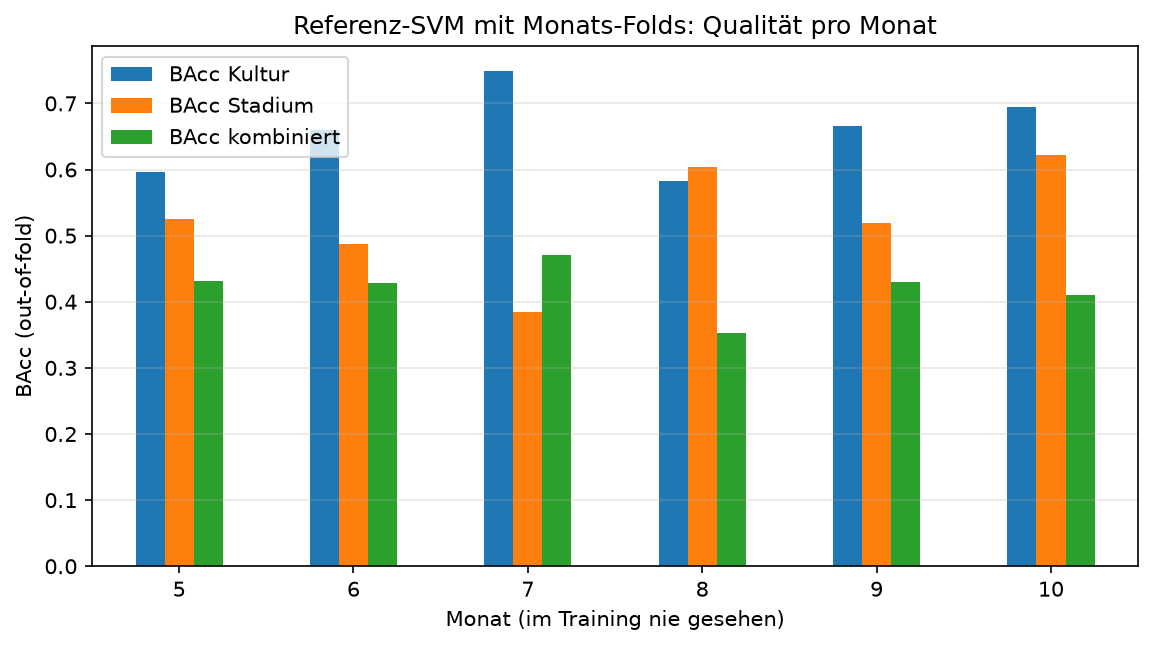
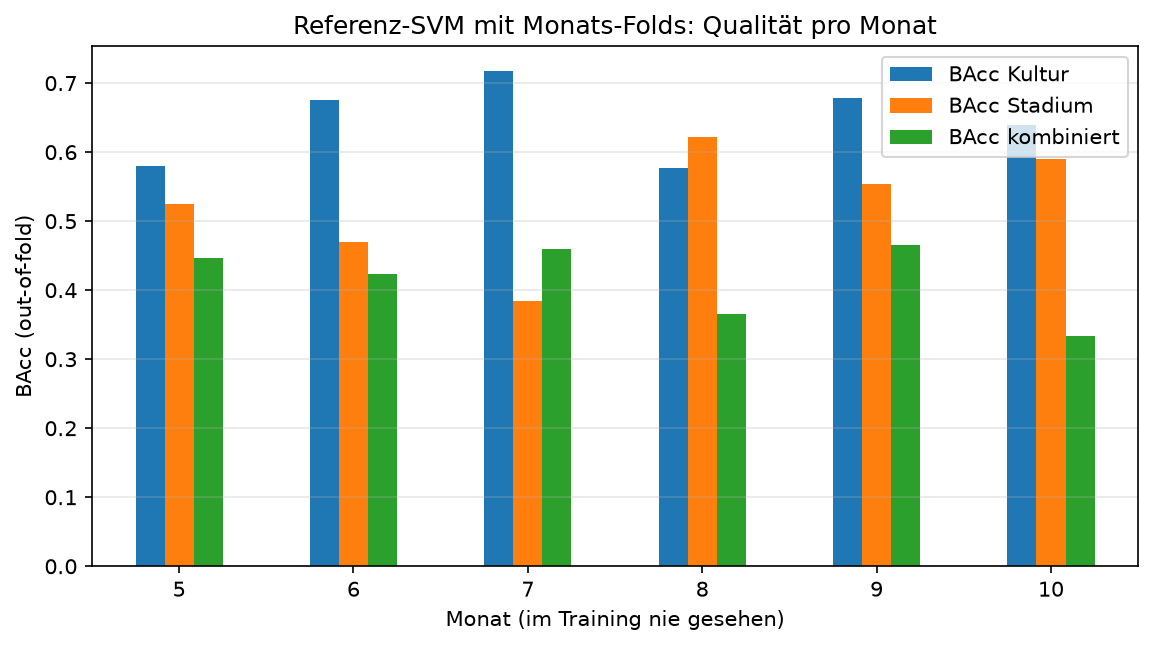
exp: rerun grouped cross-validation on the 80/20 split

diff --git a/docs/modelle/experimente.md b/docs/modelle/experimente.md
@@ -73,4 +73,4 @@ Diese Läufe verwenden ausschließlich die Trainingsfolds. Sie haben keine Valid
 | 2026-10-12 | hierarchical_ensemble_search | Datata1 | Hierarchisch | 0.844 | 9259062a | Gewichtete Abstimmung (#113, korrigierte Gleichstandsregel): RBF-SVM + jede Teilmenge aus kNN, logistischer Regression, Extra Trees × SVM-Gewicht 1/1.5/2 (21 Kandidaten, etwa 5 verschiedene Entscheidungsregeln); bestes Ensemble alle vier, Gewicht 1 (0.844) – Gewinn 0.0045 unter `MIN_CV_GAIN` 0.005, keine Validierung; SVM bleibt Referenz. |
 | 2026-10-20 | reduction_svm_* | Datata1 | Kombinierte Klasse | 0.860 (Sentinel-2) | 0ac067c3 | **80/20-Split.** Trade-off-Kurve über 17 Eingaben (#155), gleiches Raster `C` × `gamma`: alle Bänder 0.859; PCA 2/5/10/20/40 0.765/0.811/0.846/0.851/0.856 (immer 131 Bänder); Bandauswahl 5/10/20/40/80 0.711/0.739/0.755/0.788/0.841; jedes 2./4./8. Band 0.857/0.859/0.849; Sentinel-2 0.860; nur Indizes 0.840; nur Meta 0.537. Notebook `33_jd_datenreduktion`. |
 | 2026-10-20 | audit_svm_* | Datata1 | Kombinierte Klasse | 0.859 (Referenz, + Albedo) | 7571d2ea | **80/20-Split.** Feature-Audit der Referenz: ohne Meta 0.787 (a91b83fe), + Indizes 0.848 (fded1d9c), + Albedo 0.859 (79394678), + PC_1/PC_2 0.850 (5d454ca9), nur Indizes + Meta 0.840 (f283078a), nur Meta 0.537 (56eefe21) – keine Zusatzgruppe trägt. |
-| 2026-10-20 | split_*_* | Datata1 | Kombinierte Klasse | 0.383 / 0.421 / 0.299 (alle Bänder) | 3ffc27f4 | Split-Leakage-Check (#170, Experiment `split-leakage`): Gruppen-Folds statt zufällig, je neu getunt. Alle Bänder zufällig 0.848 → neue Aufnahme (AEZ × Monat) 0.383, neuer Monat 0.421 (1f1f7f95), neue Region 0.299 (afaa1041); Sentinel-2 jeweils gleichauf (0.398/0.426/0.287), nur Spektren 0.326/0.340/0.250, nur Meta 0.291/0.279/0.282. Testdaten stammen aus denselben 32 Zellen → zufälliger Split bleibt für die Abgabe gültig; Grenze für neue Aufnahmen. Notebook `34_jd_gruppen_cv`. |
+| 2026-10-20 | split_*_* | Datata1 | Kombinierte Klasse | 0.378 / 0.421 / 0.284 (alle Bänder) | 482cd374 | **80/20-Split.** Split-Leakage-Check (#170, Experiment `split-leakage`): Gruppen-Folds statt zufällig, je neu getunt. Alle Bänder zufällig 0.859 (c0417d33) → neue Aufnahme (AEZ × Monat) 0.378, neuer Monat 0.421 (cb600d5c), neue Region 0.284 (1f6323a2); Sentinel-2 jeweils gleichauf (0.389/0.419/0.274), nur Spektren 0.317/0.342/0.237, nur Meta 0.302/0.256/0.270. Gegenüber 70/30 nur die zufällige CV besser (+0.011). Testdaten stammen aus denselben 32 Zellen → zufälliger Split bleibt für die Abgabe gültig; Grenze für neue Aufnahmen. Notebook `34_jd_gruppen_cv`. |
